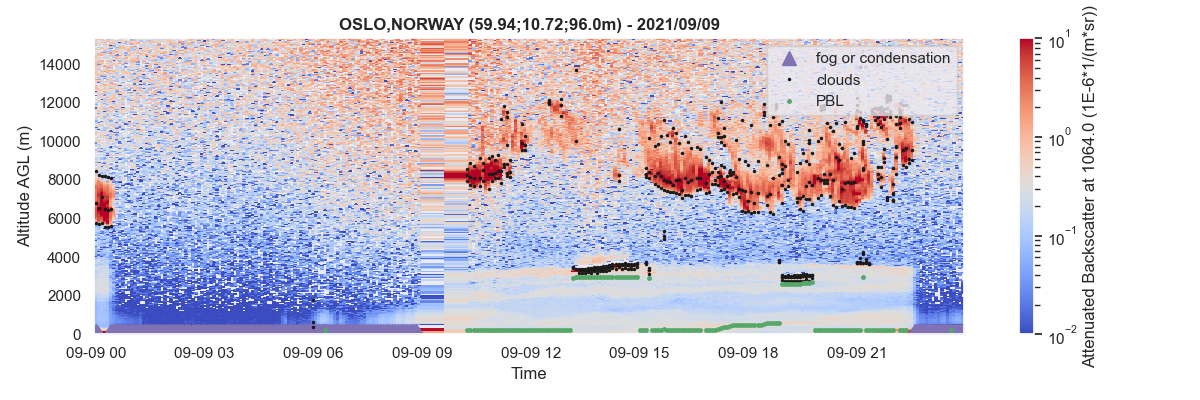
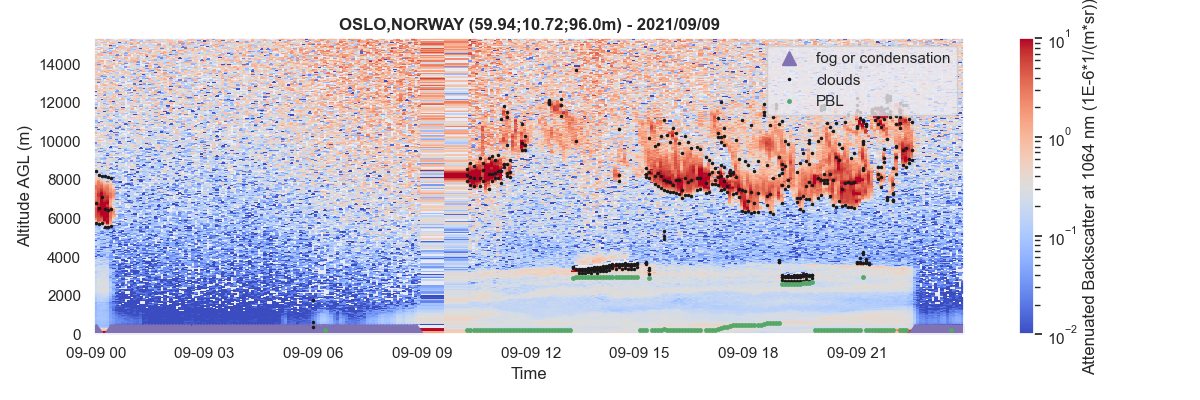
replace figures README

Changed region(s): [[0.8942, 0.0, 0.925, 0.93]]

diff --git a/aprofiles/plot/profile.py b/aprofiles/plot/profile.py
@@ -153,9 +153,9 @@ def plot(da, datetime, var='attenuated_backscatter_0', zref='agl', zmin=None, zm
     plt.title('{} ({:.2f};{:.2f};{:.1f}m) - {}'.format(station_id, latitude, longitude, altitude, np.datetime_as_string(da_time[i_time]).split('.')[0]), weight='bold', fontsize=12)
     #labels
     if 'units' in list(da[var].attrs) and da[var].units!=None:
-        xlabel = '{} ({})'.format(da[var].long_name.replace('wavelength 0',str(da.l0_wavelength.data)), da[var].units)
+        xlabel = '{} ({})'.format(da[var].long_name, da[var].units)
     else:
-        xlabel = '{}'.format(da[var].long_name.replace('wavelength 0',str(da.l0_wavelength.data)))
+        xlabel = '{}'.format(da[var].long_name)
     plt.xlabel(xlabel)
     plt.ylabel('Altitude {} (m)'.format(zref.upper()))
 

diff --git a/aprofiles/plot/image.py b/aprofiles/plot/image.py
@@ -163,9 +163,9 @@ def plot(da, var='attenuated_backscatter_0', zref='agl', zmin=None, zmax=None, v
     cbar = plt.colorbar()
     #label
     if 'units' in list(da[var].attrs) and da[var].units!=None:
-        label = '{} ({})'.format(da[var].long_name.replace('wavelength 0',str(da.l0_wavelength.data)), da[var].units)
+        label = '{} ({})'.format(da[var].long_name, da[var].units)
     else:
-        label = '{}'.format(da[var].long_name.replace('wavelength 0',str(da.l0_wavelength.data)))
+        label = '{}'.format(da[var].long_name)
     cbar.set_label(label)
 
     plt.tight_layout()

diff --git a/main.py b/main.py
@@ -38,8 +38,8 @@ datetime = np.datetime64('2021-09-09T19:25:00')
 profiles.plot(datetime=datetime, vmin=-1, vmax=10, zmax=12000, show_fog=True, show_clouds=True, show_pbl=True)
 
 #klett inversion
-profiles.klett_inversion(zmin=4000, zmax=6000, remove_outliers=False, verbose=True)
-profiles.plot(var='ext', zmax=8000, vmax=5e-2)
+#profiles.klett_inversion(zmin=4000, zmax=6000, remove_outliers=False, verbose=True)
+#profiles.plot(var='ext', zmax=8000, vmax=5e-2)
 
 ##produce rayleigh profile
 #altitude = profiles.data.altitude.data

diff --git a/aprofiles/reader.py b/aprofiles/reader.py
@@ -99,6 +99,9 @@ class _ReadL2EPROFILE:
     def read_file(self):
         self.check_path()
         dataset = xr.open_dataset(self.path)
+        #replace wavelength with actual value in attenuated backscatter longname
+        dataset.attenuated_backscatter_0.attrs['long_name'] = dataset.attenuated_backscatter_0.long_name.replace('wavelength 0','{} nm'.format(int(dataset.l0_wavelength.data)))
+
         return dataset
 
 

diff --git a/aprofiles/profilesdata.py b/aprofiles/profilesdata.py
@@ -931,7 +931,7 @@ class ProfilesData:
                 altitude=self.data.altitude.data
             ),
             attrs=dict(
-                long_name="Extinction Coefficient at {}".format(wavelength),
+                long_name="Extinction Coefficient at {} nm".format(int(wavelength)),
                 method="{} Klett".format(method.capitalize()),
                 units="km-1",
                 time_avg=time_avg,
